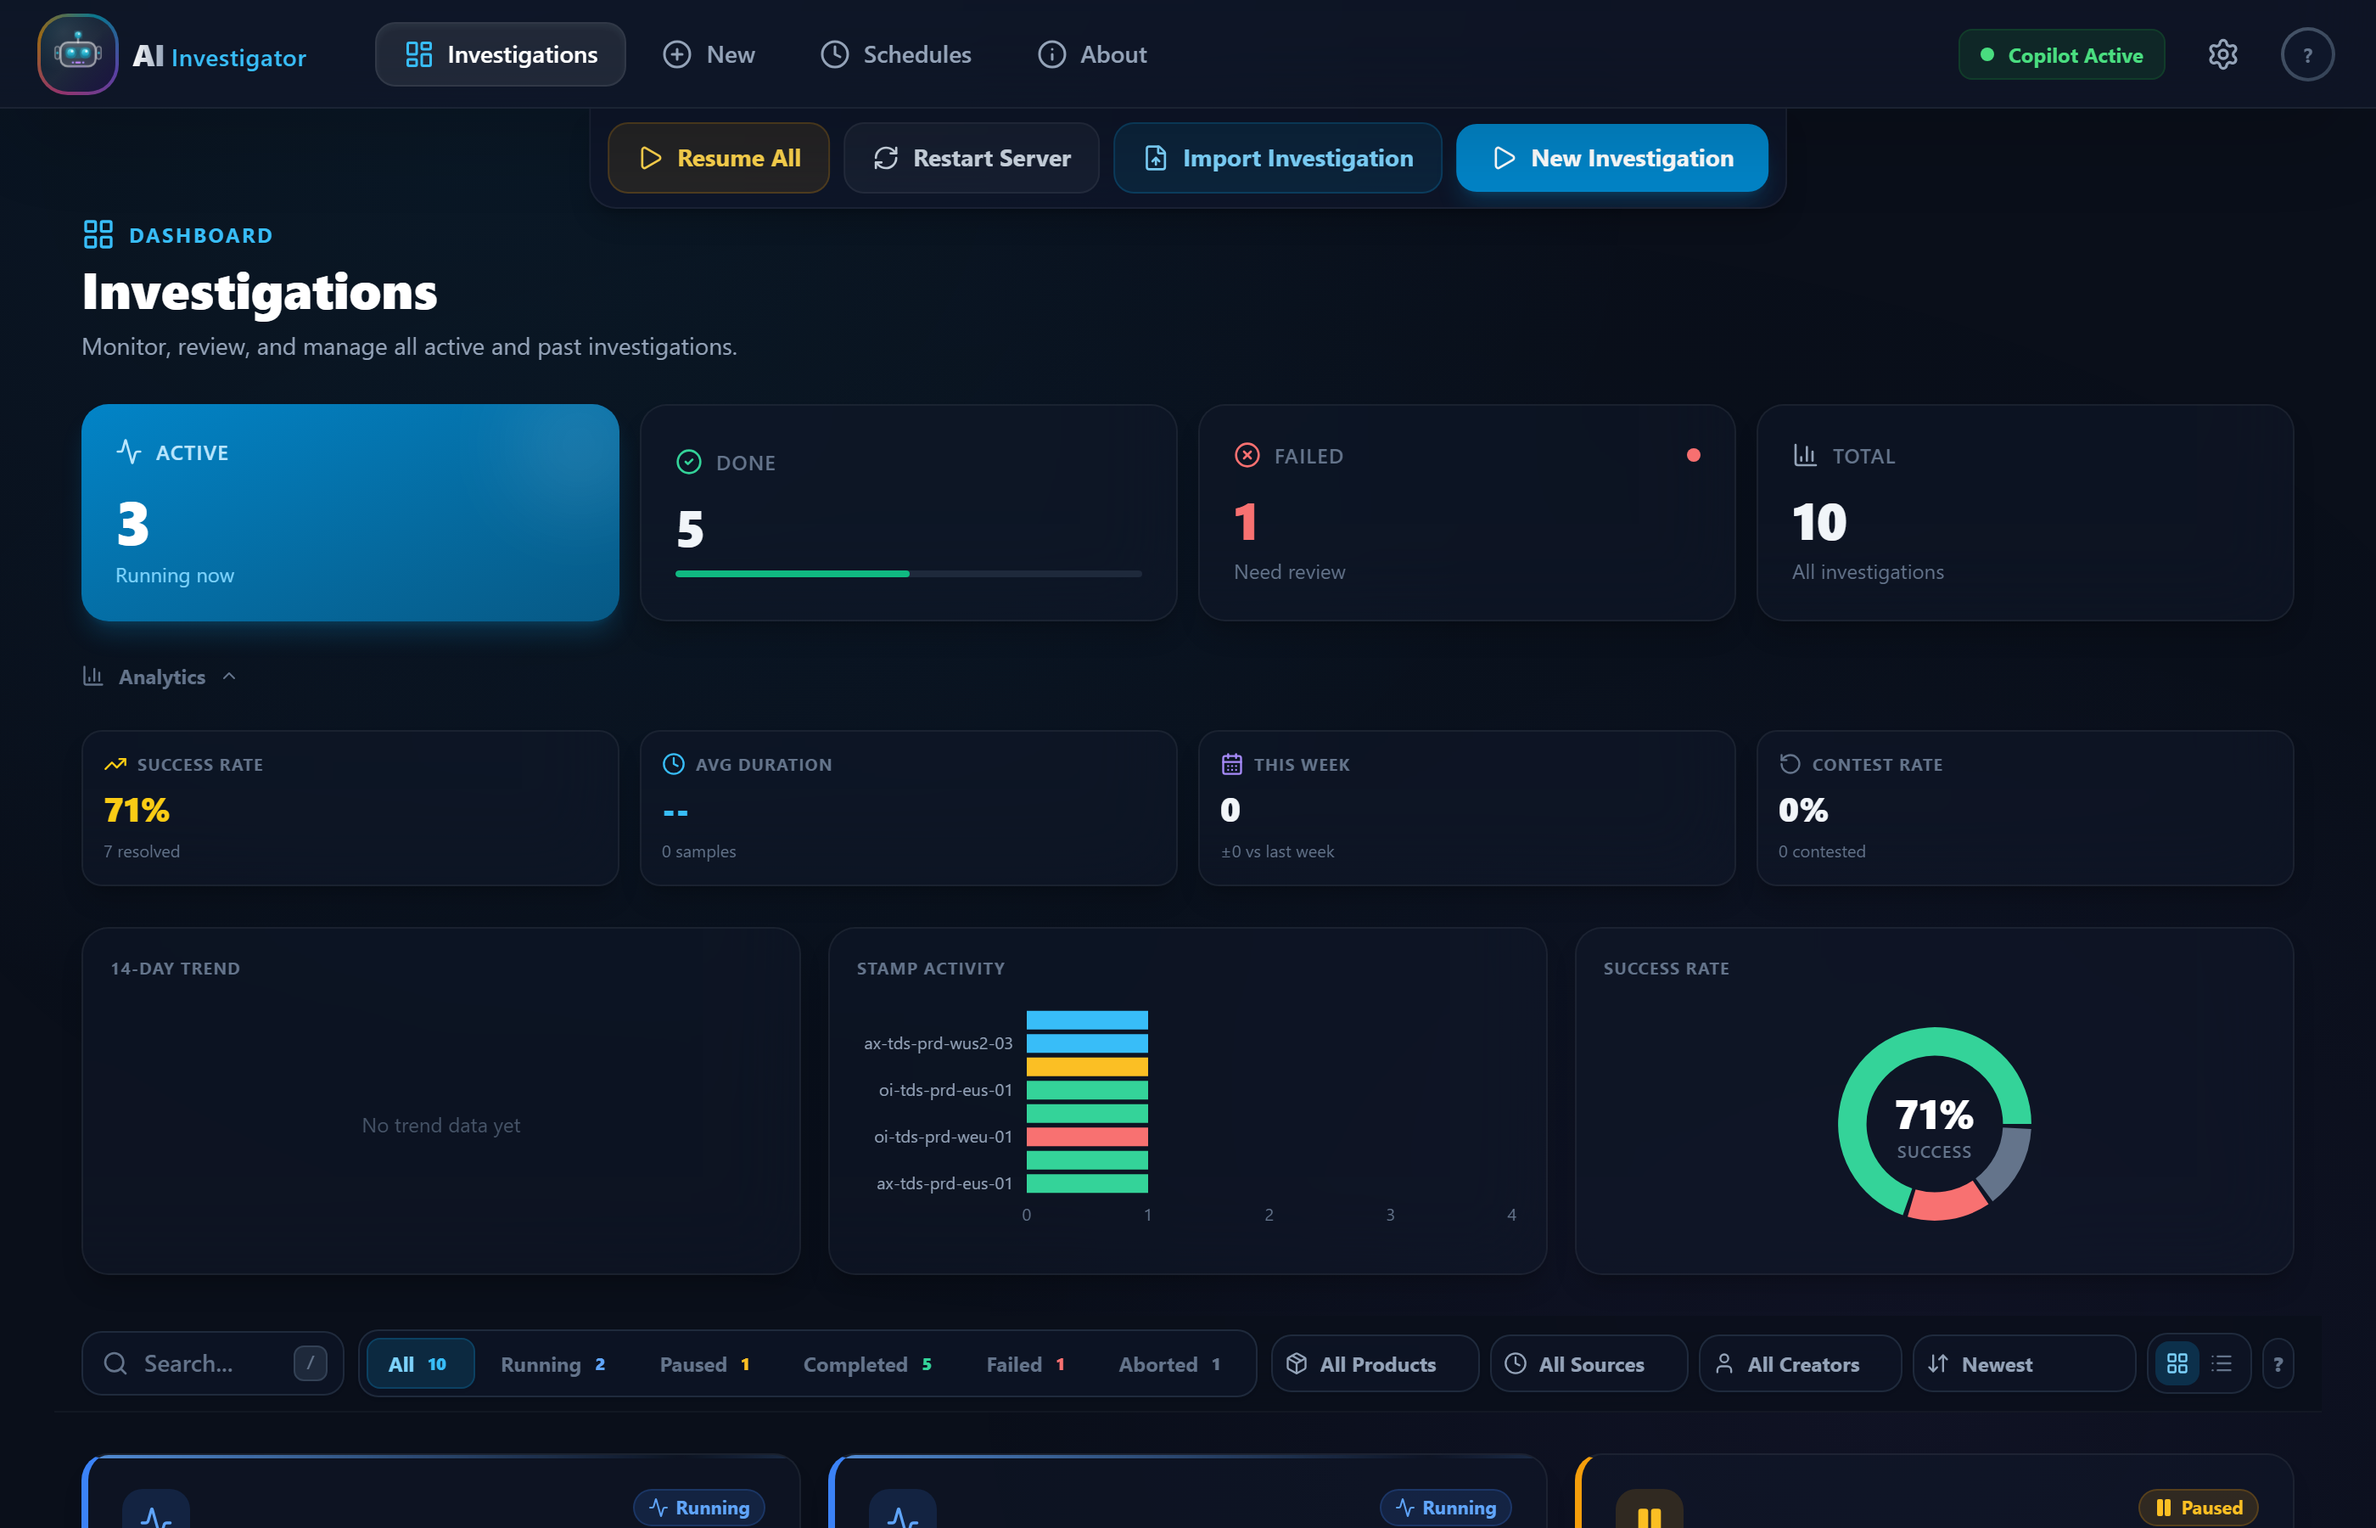
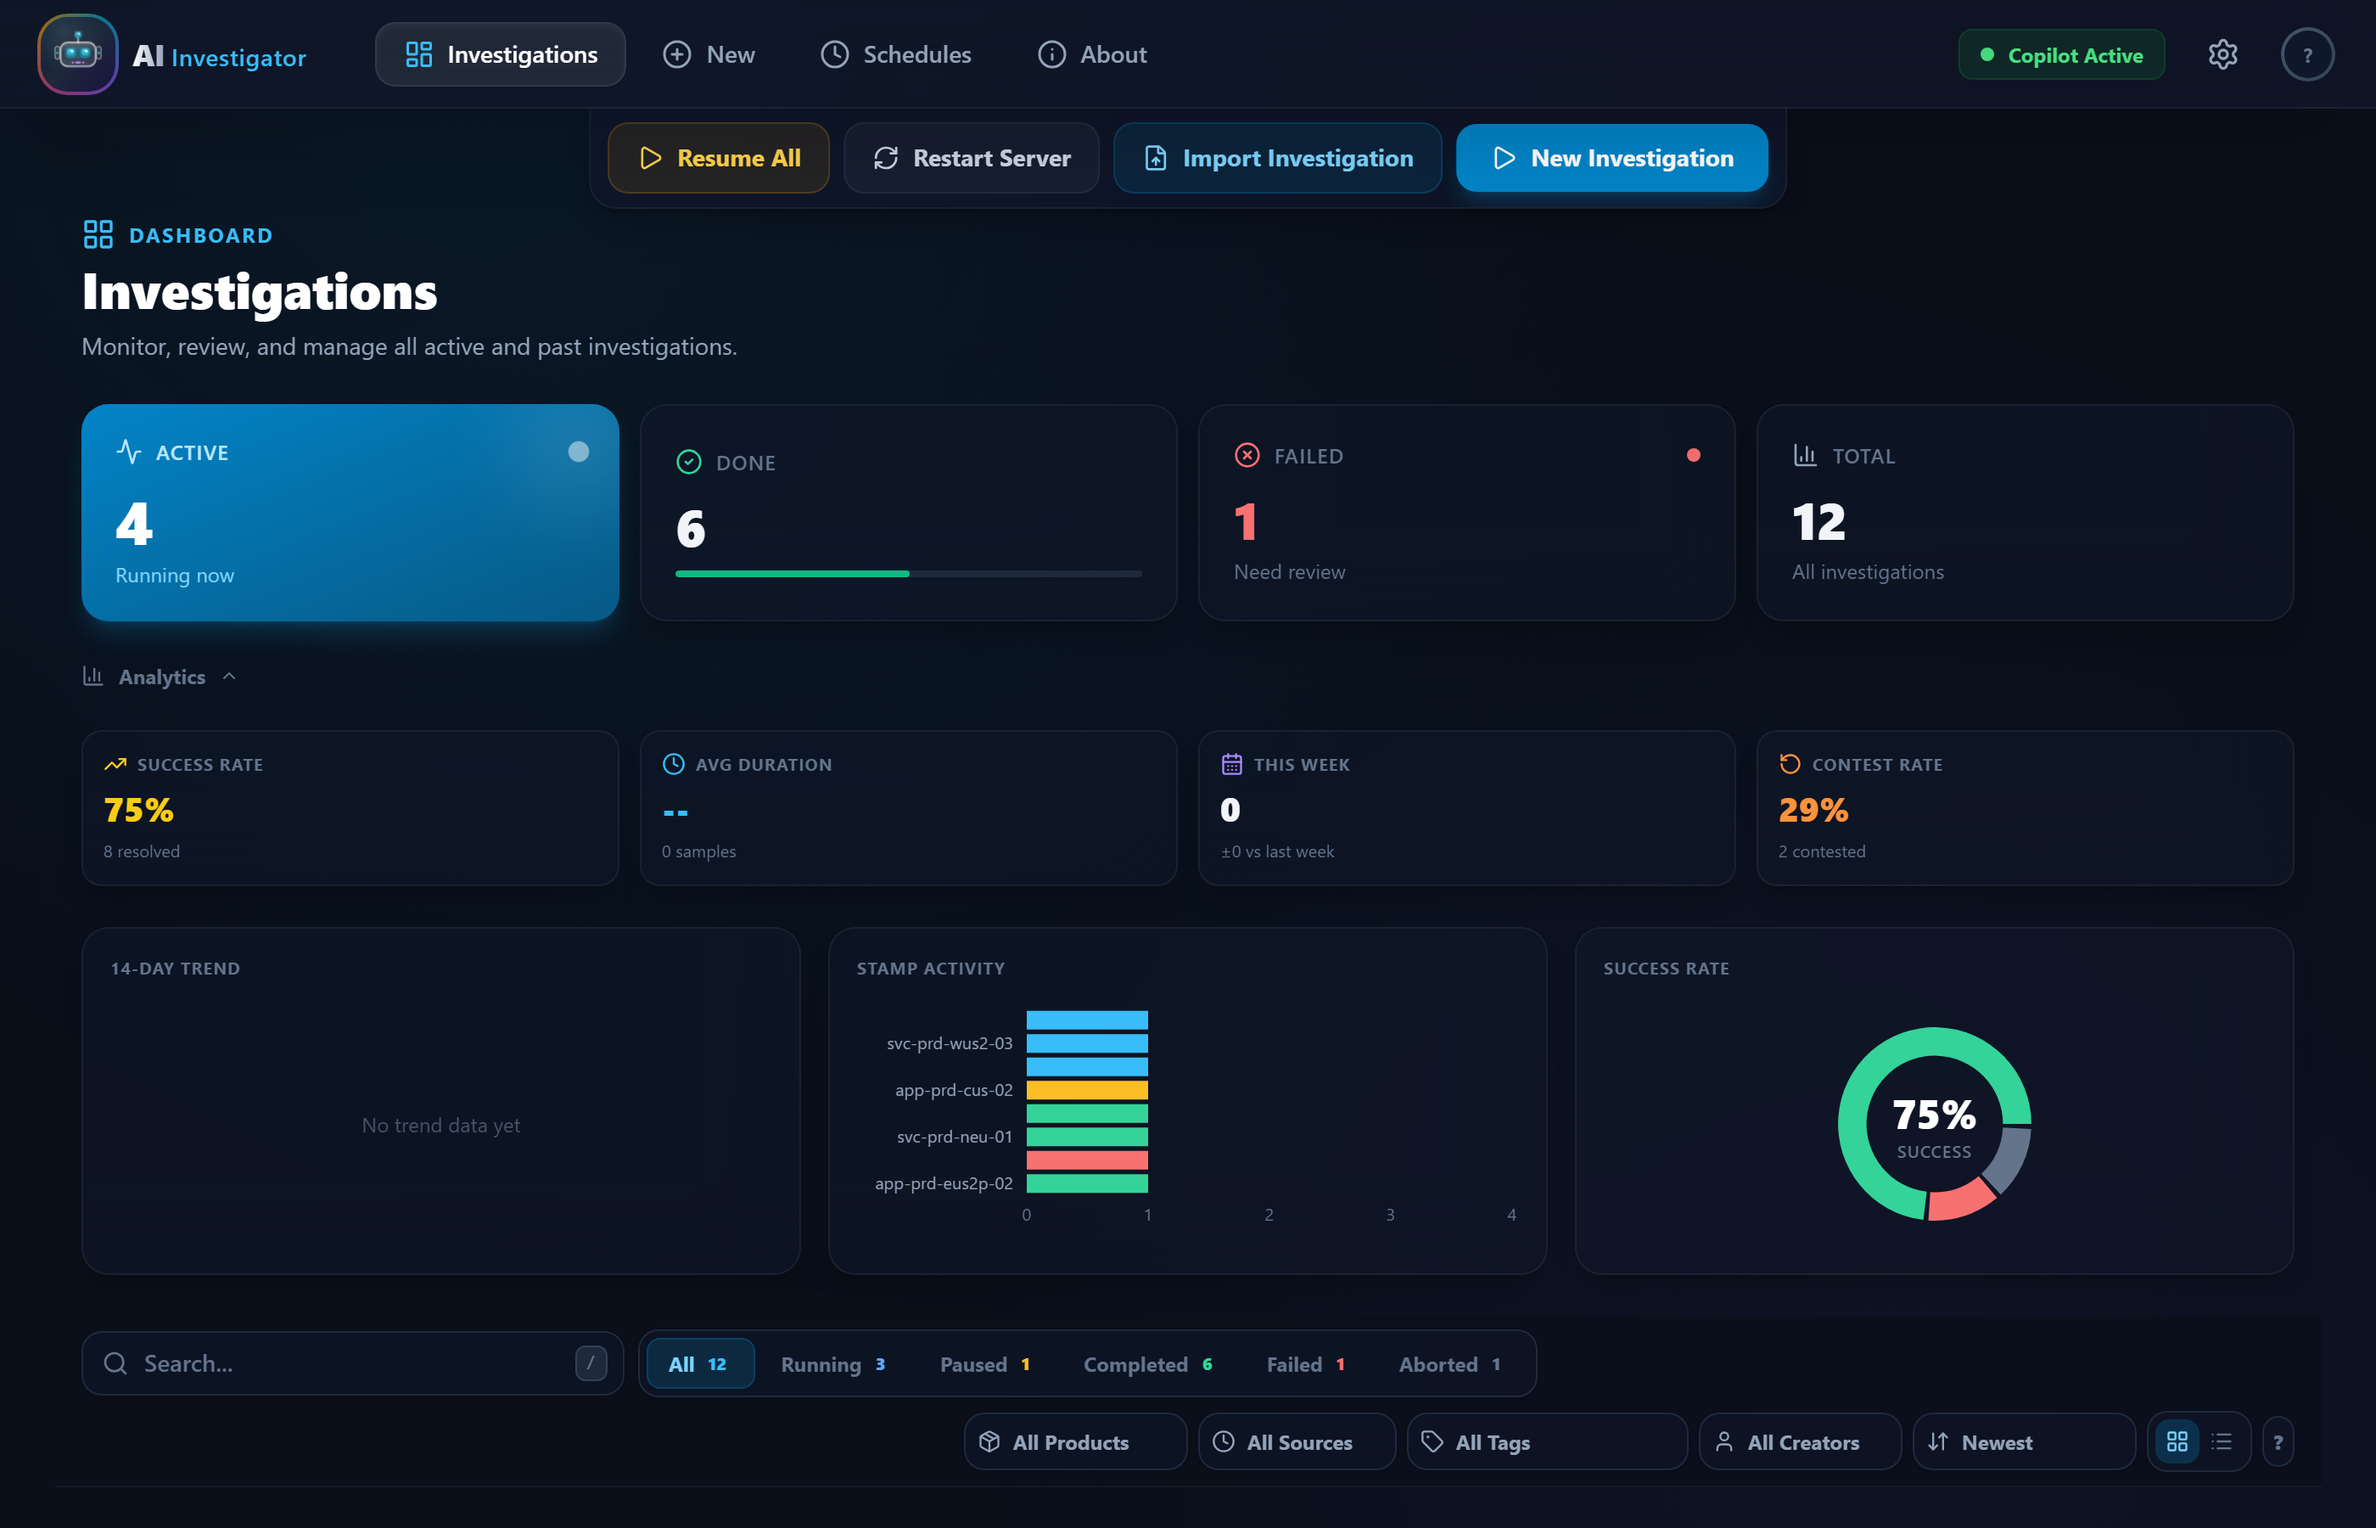
Regenerate all screenshots with richer fixture data
- Updated investigations.json with 12 diverse investigations (was 10)
- Multiple creators, products, tags, and statuses for visual variety
- Grid view forced for dashboard-overview hero screenshot
- Mixed states: 3 running, 1 paused, 5 completed, 1 failed, 1 aborted, 1 new
- Added ICM incident, scheduled investigations, retrospective badges

diff --git a/scripts/screenshots/capture.js b/scripts/screenshots/capture.js
@@ -94,6 +94,12 @@ async function captureDashboardOverview(page) {
     await navigateTo(page, '/');
     // Wait for investigation cards to render
     await page.waitForTimeout(1200);
+    // Ensure grid view is active (more impressive than list view)
+    const gridBtn = page.locator('button[title*="Grid"], button[aria-label*="grid"], button:has(svg.lucide-layout-grid)').first();
+    if (await gridBtn.isVisible()) {
+        await gridBtn.click();
+        await page.waitForTimeout(600);
+    }
     await screenshot(page, 'dashboard-overview');
 }
 
